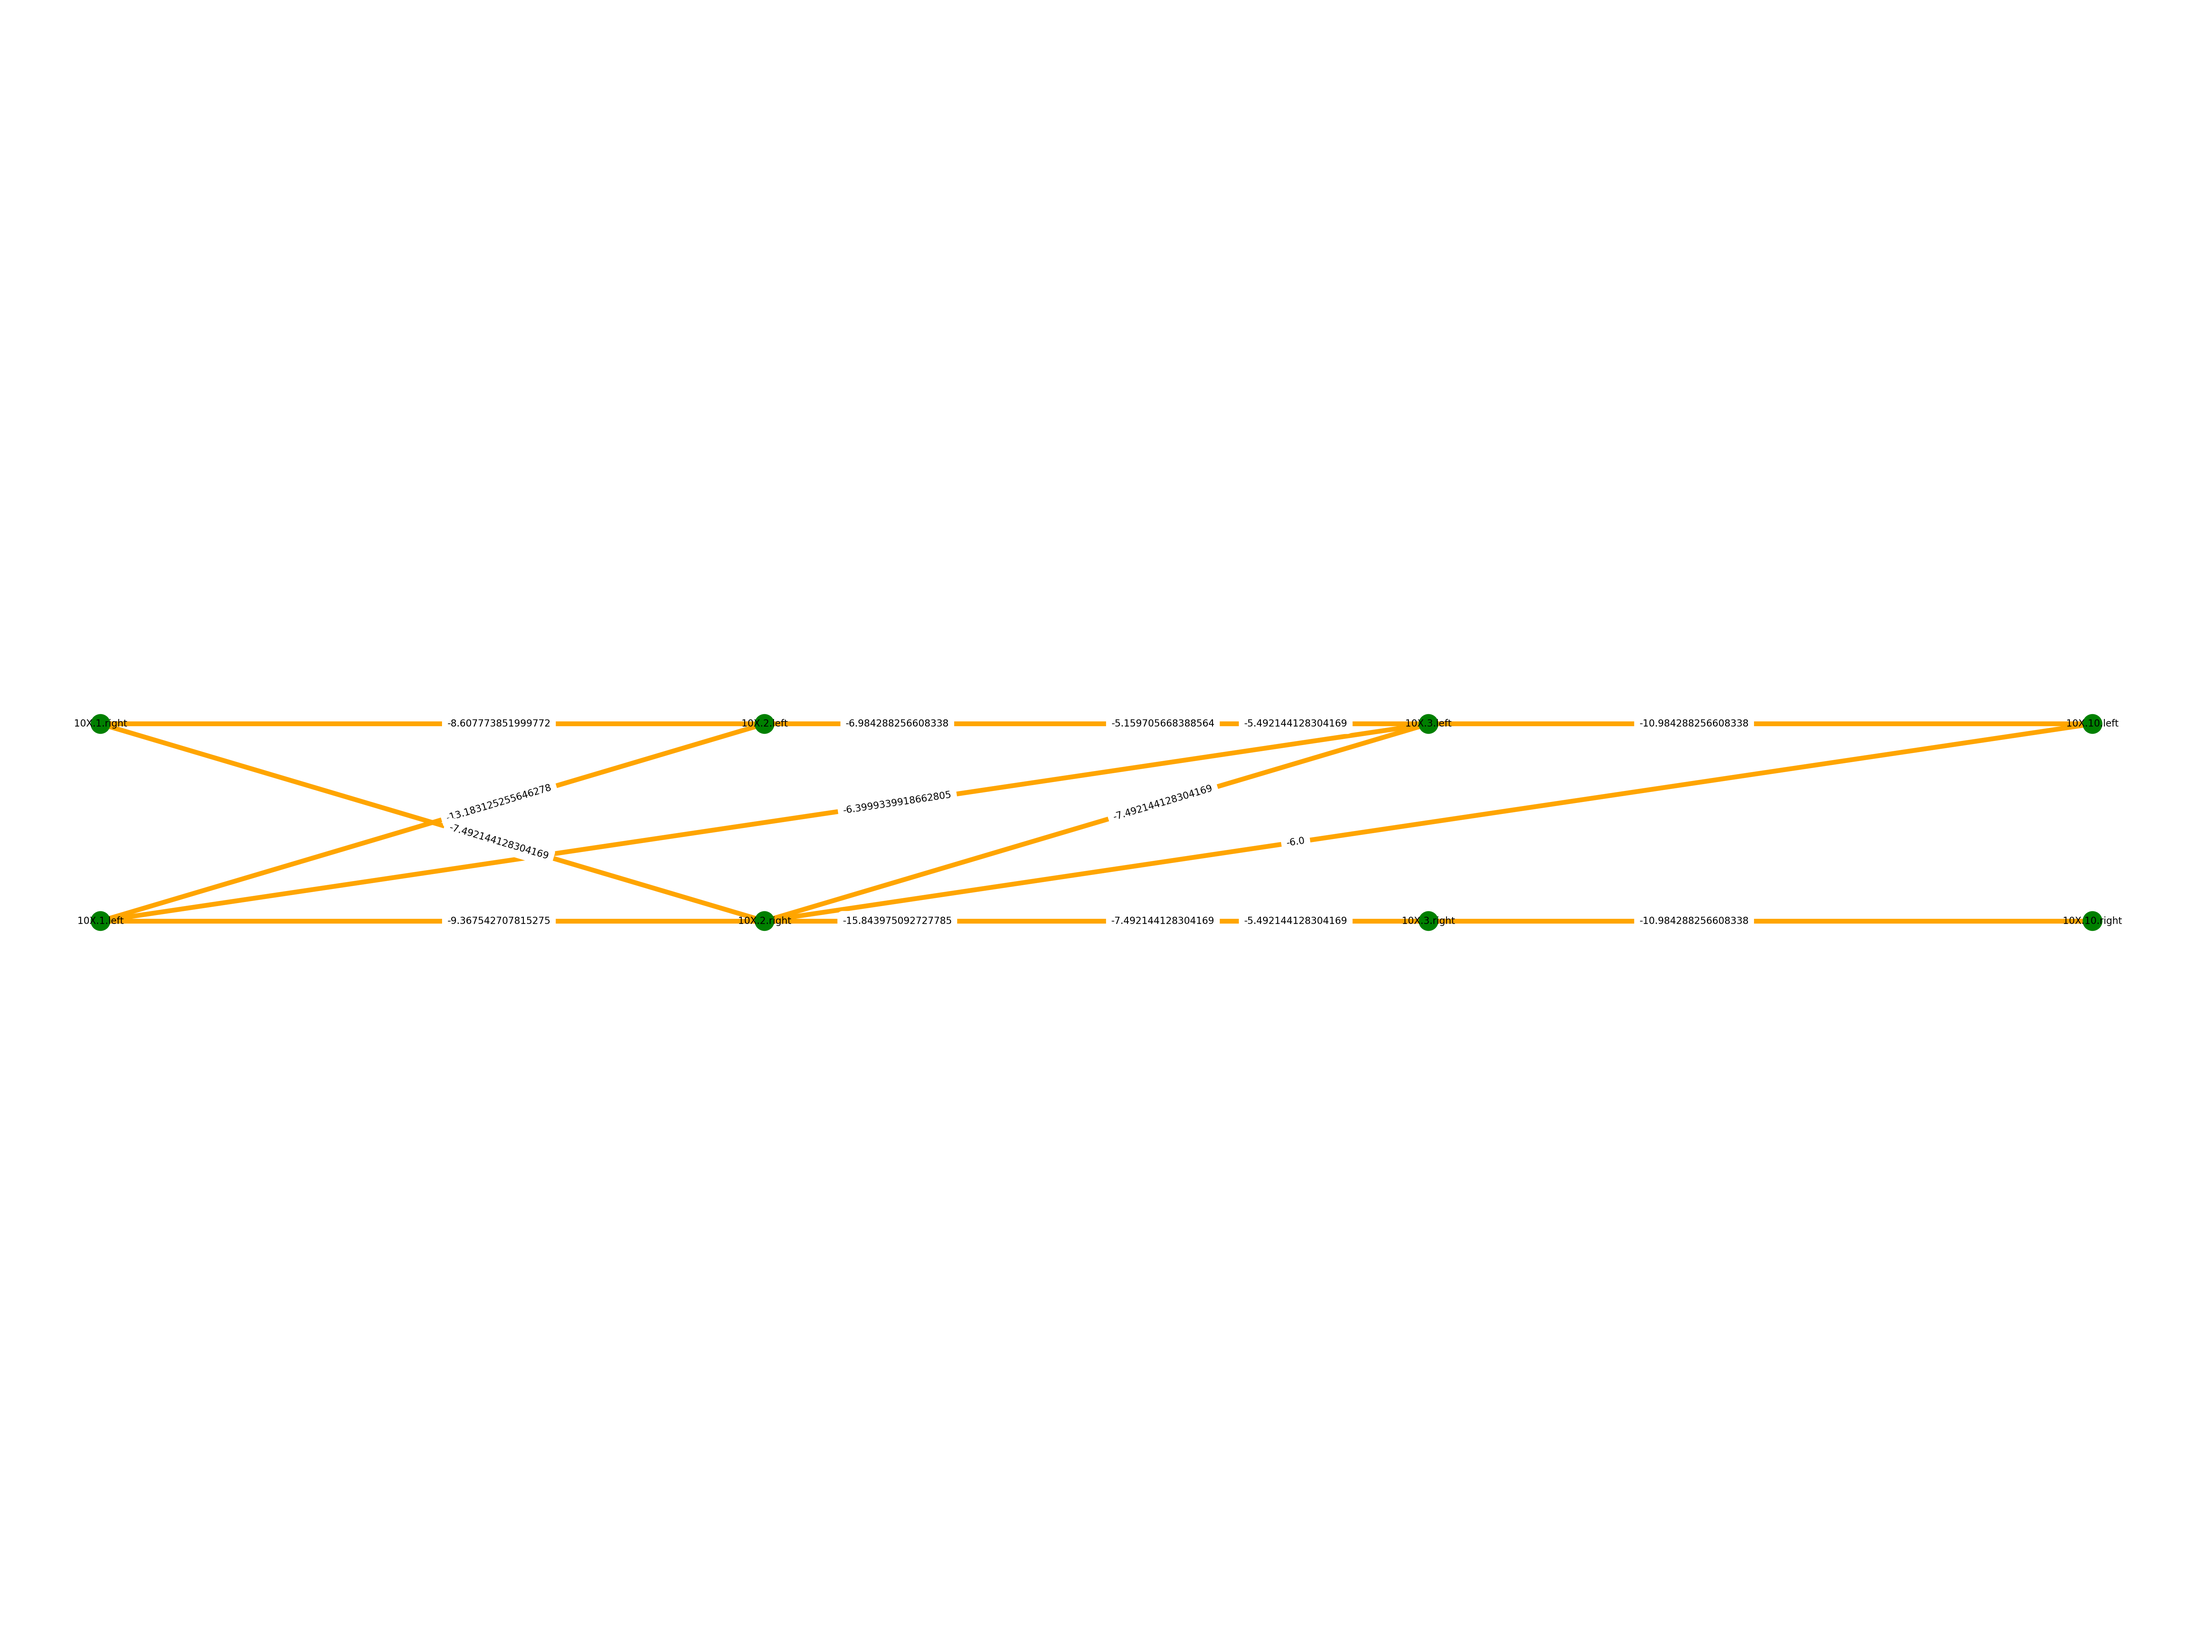
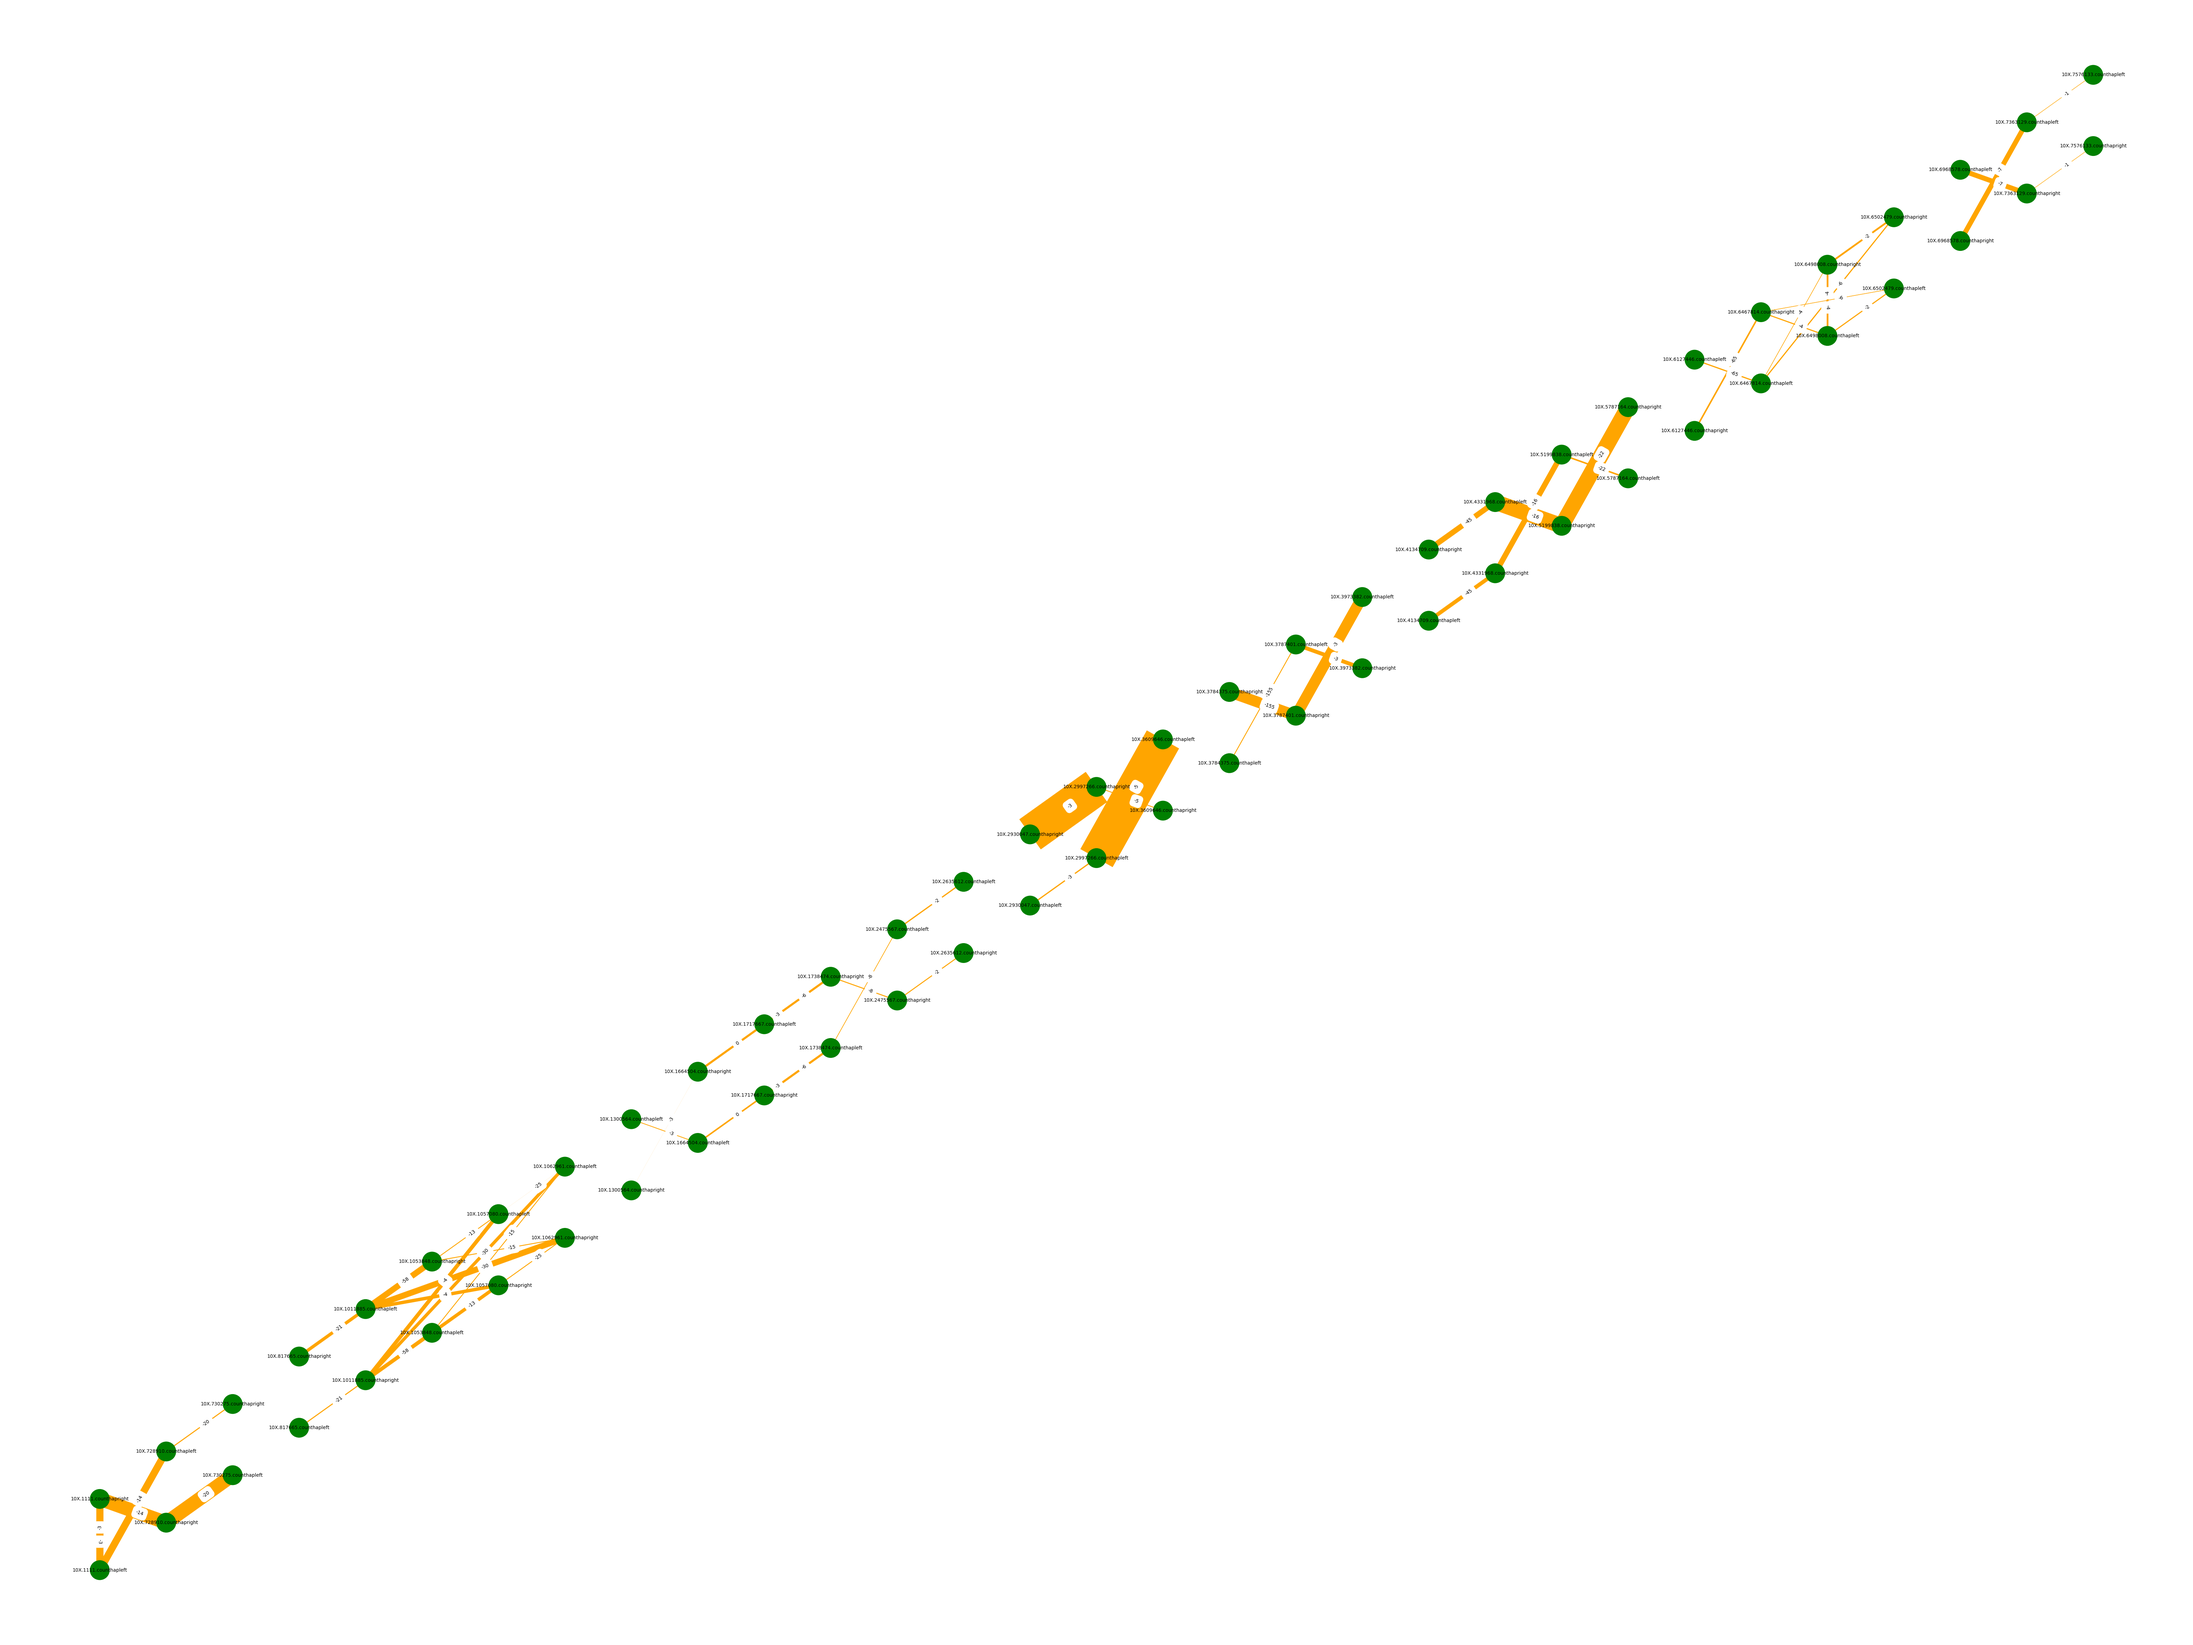
graph network improved

diff --git a/testbyouga_bkup.py b/testbyouga_bkup.py
@@ -9,7 +9,7 @@ import math
 
 G=nx.Graph()
 
-a = open('nodes.txt')
+a = open('nodes_bkup.txt')
 arl = [ i.split() for i in a.read().split('\n') if i!=''  ]
 pos = {}
 labels = {}
@@ -21,19 +21,20 @@ for i in nodesl:
     G.add_node(i) 
 for i in range(len(nodesl)):
     if i%2 == 0:
-        pos[nodesl[i]] = (i+1, 0)
+        pos[nodesl[i]] = (i+1, i+0)
     else:
-        pos[nodesl[i]] = (i, 0.001)
-
+        pos[nodesl[i]] = (i, i+2)
+widthl = []
 for i in arl:
     G.add_edge(i[0], i[1])
-    # labels[(i[0], i[1])] = str(int(math.log10(float(i[2]))))
-    labels[(i[0], i[1])] = str(float(i[2]))
+    widthl.append(-float(math.log10(float(i[2]))*0.05))
+    labels[(i[0], i[1])] = str(int(math.log10(float(i[2]))))
+    # labels[(i[0], i[1])] = str(float(i[2]))
 
 
 
-nx.draw(G,pos, node_size = sizes, with_labels = True, font_size = 2,node_color = 'green', edge_color = 'orange' )
-nx.draw_networkx_edge_labels(G,pos,edge_labels=labels,font_size=2, label_pos = 0.4)
+nx.draw(G,pos, node_size = sizes, with_labels = True, font_size = 1,node_color = 'green', edge_color = 'orange', width = widthl )
+nx.draw_networkx_edge_labels(G,pos,edge_labels=labels,font_size=1, label_pos = 0.4)
 
 
 plt.savefig("test_fig.png", dpi=1000)

diff --git a/testbyouga.py b/testbyouga.py
@@ -21,19 +21,22 @@ for i in nodesl:
     G.add_node(i) 
 for i in range(len(nodesl)):
     if i%2 == 0:
-        pos[nodesl[i]] = (i+1, 0)
+        pos[nodesl[i]] = (i+1, i)
     else:
-        pos[nodesl[i]] = (i, 0.001)
+        pos[nodesl[i]] = (i, i+2)
+
+widthl = []
 
 for i in arl:
     G.add_edge(i[0], i[1])
+    widthl.append(-float(i[2])*0.05)
     # labels[(i[0], i[1])] = str(int(math.log10(float(i[2]))))
     labels[(i[0], i[1])] = str(float(i[2]))
 
 
 
-nx.draw(G,pos, node_size = sizes, with_labels = True, font_size = 2,node_color = 'green', edge_color = 'orange' )
-nx.draw_networkx_edge_labels(G,pos,edge_labels=labels,font_size=2, label_pos = 0.4)
+nx.draw(G,pos, node_size = sizes, with_labels = True, font_size = 1,node_color = 'green', edge_color = 'orange', width = widthl )
+nx.draw_networkx_edge_labels(G,pos,edge_labels=labels,font_size=1, label_pos = 0.4)
 
 
 plt.savefig("test_fig.png", dpi=1000)

diff --git a/assign_hap.py b/assign_hap.py
@@ -43,4 +43,3 @@ for i in valued:
     
 for i in valuec:
     print('10X.'+i[0], '10X.'+i[1], valuec[i])
-
